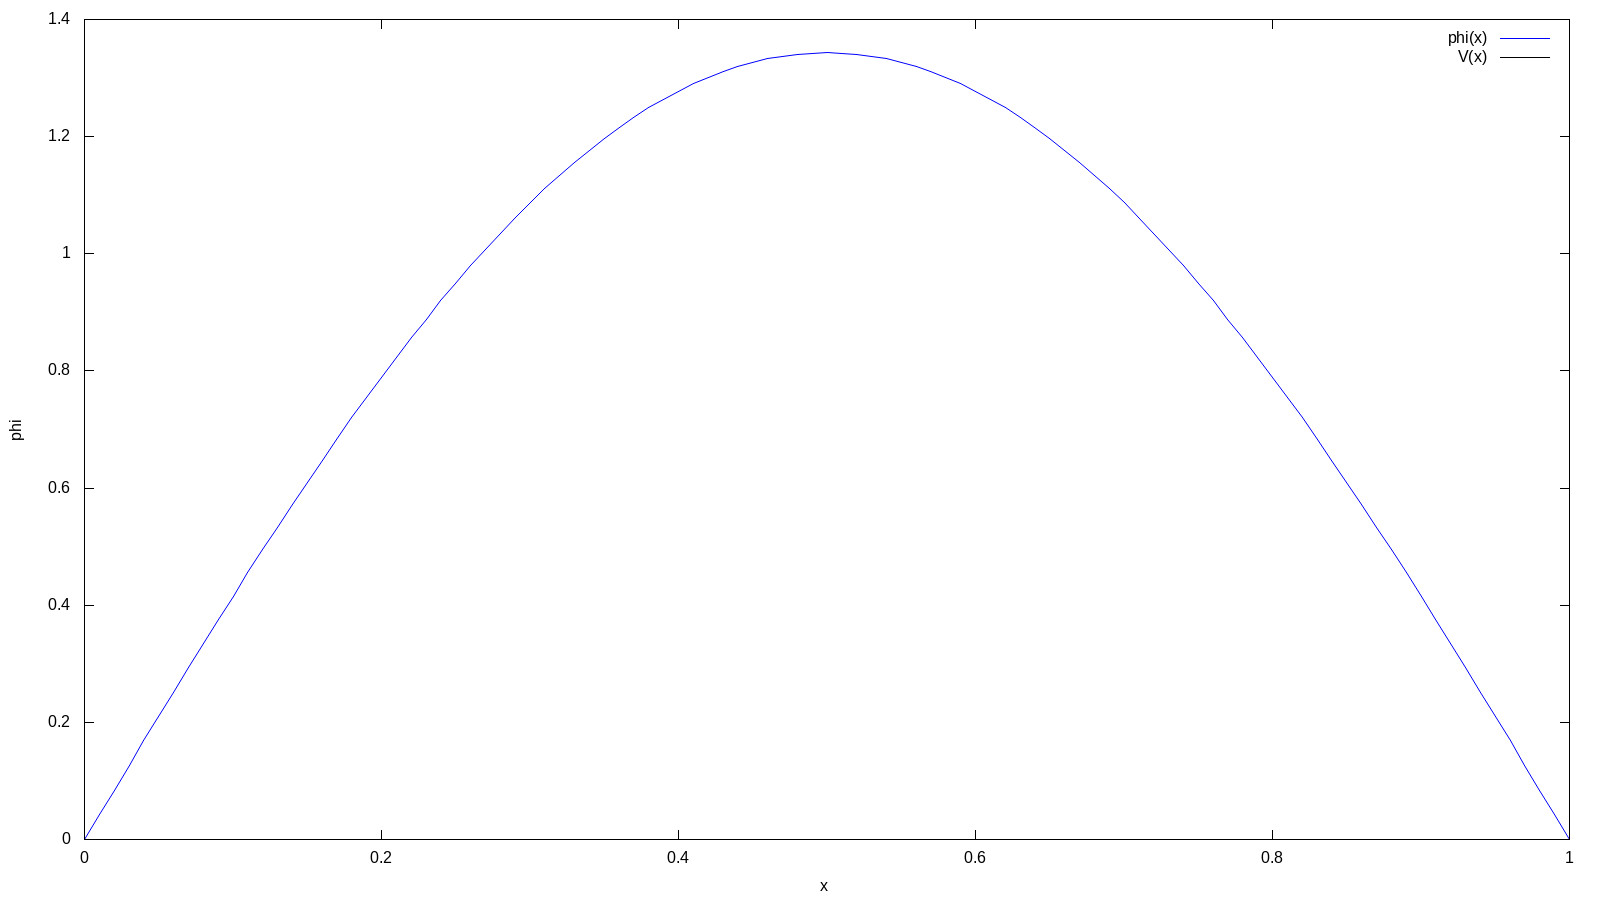
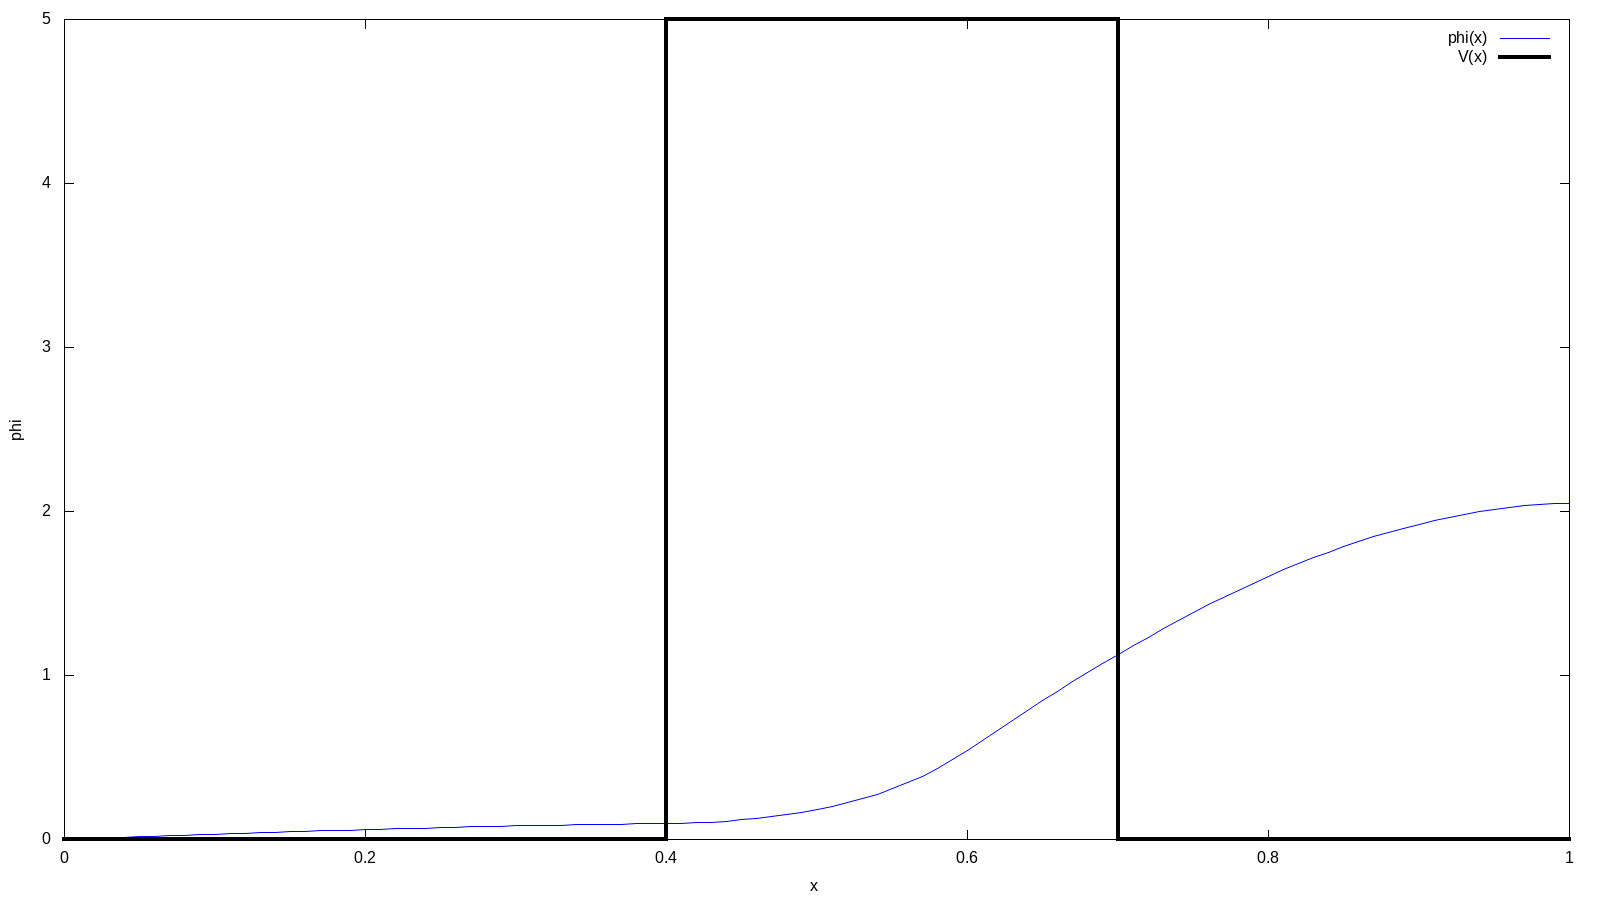
Some improvements + fixes Added structures for parameters, to make it easier and more readable Addes the different cases of potential Fixed an issue in the function drawPotential() : when the potential changed there was a leaning line and not a vertical line

diff --git a/src/main.c b/src/main.c
@@ -8,10 +8,20 @@
 
 #define N_POINTS 100 //number of points
 
+
 typedef struct potentialParams{
 	int type;
-	double value;
+	double v0;
+	double a;
+	double b;
 }potentialParams;
+
+typedef struct schrodingerParameters{
+	potentialParams potential;
+	double energy;
+	double bound;
+	double alpha;
+}schrodingerParameters;
 
 /*
 	
@@ -31,28 +41,44 @@ d(phi)/dx - alpha * phi = 0
 
 
 // It will change between the 3 cases that we will see here (rectangular, null...)
-double getPotential(double x){
-	return 0;
+double getPotential(double x, potentialParams potential){
+	switch(potential.type){
+		case 0: 	// V=0
+			return 0;
+		case 1:		// step potential
+			if(x<potential.a){
+				return 0;
+			}
+			else{
+				return potential.v0;
+			}
+		case 2:		// rectangular potential
+			if(x<potential.a || x>potential.b){
+				return 0;
+			}
+			else{
+				return potential.v0;
+			}
+		default:
+			fprintf(stderr, "ERROR : in getPotential(), parameters are incorrect");
+			exit(EXIT_FAILURE);
+	}
+
 	/*
-	if(x>5){
-		...
-	}
-	else{
-		...
-	}
+	
 	*/
 }
 
 
-// Calculate alpha which is in the equation of Schrodinger : phi'' + alpha*phi = 0
-double getConstantFromParams(double x, double* params)
+// Calculate the coefficient of phi (C) which is in the equation of Schrodinger : phi'' + C*phi = 0
+double getCoefficientFromParams(double x, schrodingerParameters params)
 {
-	return params[0]*(params[1]-getPotential(x));
+	return params.alpha*(params.energy-getPotential(x, params.potential));
 }
 
 // calculate f(y0,y1,y2)
 int func (double x, const double y[], double f[] /* = dydt*/, void *params){
-	double alpha = getConstantFromParams(x, (double*) params);
+	double alpha = getCoefficientFromParams(x, *(schrodingerParameters*) params);
 	f[0]=y[1];
 	f[1]=(-1.0)*alpha*y[0];
 	f[2]=y[0]*y[0];
@@ -61,11 +87,10 @@ int func (double x, const double y[], double f[] /* = dydt*/, void *params){
 }
 
 // get an approximation of the values of the function phi(x) in the equation, to find the root
-int functionForRoot(double z, double params[3], double f[2])
+int functionForRoot(double z, schrodingerParameters params, double f[2])
 {
-	double constants[2] = {params[2], params[1]} ; // constants[0] = 2m/hbar²	constants[1] = E
-	gsl_odeiv2_system sys = {func, NULL, 3, &constants}; // we initialize the ODE system
-	double x = 0.0, l = params[0]; // we set the bounds
+	gsl_odeiv2_system sys = {func, NULL, 3, &params}; // we initialize the ODE system
+	double x = 0.0, l = params.bound; // we set the bounds
 
 	gsl_odeiv2_driver * driver = gsl_odeiv2_driver_alloc_y_new (&sys, gsl_odeiv2_step_rkf45, 1e-6, 1e-6, 0.0); 
 
@@ -110,7 +135,7 @@ int print_state (size_t iter, gsl_multiroot_fsolver * s)
 }
 */
 // Find the root with the shooting method
-double findRoot(double params[3]){
+double findRoot(schrodingerParameters params){
 	double y[2]={0.0, 0.0};
 	double step=0.01;
 	double z=0.0-step;
@@ -130,19 +155,18 @@ double findRoot(double params[3]){
 			best_z_approx=z;
 		}
 		iter++;
-	}while(eps>0.1 && iter<1000);
+	}while(eps>1e-8 && iter<1000);
 	
 	return best_z_approx;
 }
 
 
 // solve the ODE with the correct params (that we got from findRoots())
-void solveAndSaveData(double z, double params[3]){
+void solveAndSaveData(double z, schrodingerParameters params){
 	FILE* dataFile = fopen("data/phi.dat", "w");
 	
-	double constants[2] = {params[2], params[1]} ; // constants[0] = 2m/hbar^2	constants[1] = E
-	gsl_odeiv2_system sys = {func, NULL, 3, &constants}; // we initialize the ODE system
-	double x = 0.0, l = params[0]; // we set the bounds
+	gsl_odeiv2_system sys = {func, NULL, 3, &params}; // we initialize the ODE system
+	double x = 0.0, l = params.bound; // we set the bounds
 
 	gsl_odeiv2_driver * driver = gsl_odeiv2_driver_alloc_y_new (&sys, gsl_odeiv2_step_rkf45, 1e-6, 1e-6, 0.0);
 
@@ -168,28 +192,41 @@ void solveAndSaveData(double z, double params[3]){
 	fclose(dataFile);
 }
 
-void drawPotential(double l){
+void drawPotential(schrodingerParameters params){
 	FILE* dataFile = fopen("data/potential.dat", "w");
 	fprintf(dataFile, "x V(x)\n");
-	for(double x=0; x<=l; x++){
-		fprintf(dataFile, "%lf %lf\n", x, getPotential(x));
+	double step=0.0;
+	if(params.potential.type==0){ // because there is only one value so 2 points are enough to draw the line
+		step=params.bound/2;
+	}
+	else{
+		step=params.bound/10;
+	}
+
+	double potentialX=0.0;
+	double prev_potentialX=0.0;
+	for(double x=0.0; x<=params.bound; x+=step){
+		potentialX = getPotential(x, params.potential);
+		printf("V(%lf) = %lf | prev = %lf \n", x, potentialX, prev_potentialX);
+		// to get a vertical line and not a leaning wall
+		if(prev_potentialX<potentialX){
+			fprintf(dataFile, "%lf %lf\n", x, 0.0);
+		}
+		else if(prev_potentialX>potentialX){
+			fprintf(dataFile, "%lf %lf\n", x, prev_potentialX);
+		}
+		fprintf(dataFile, "%lf %lf\n", x, potentialX);
+		prev_potentialX=potentialX;
 	}
 	fclose(dataFile);
 }
 
-void solveSchrodinger(double params[3]){
+void solveSchrodinger(schrodingerParameters params){
 	double z=0.0;
-	FILE* dataFile = fopen("data/phiALL.dat", "w");fclose(dataFile);
-	/*
-	potentialParams potential;
-	potential.type=0;
-	potential.value=1; //temporary value
 	
-	printf("What case do you want to view\n0: V(x)=0 everywhere\n1: V(x) is a step\n2: V(x) is rectangular\n: "); scanf("%d", &(potential.type));
-	*/
 	z=findRoot(params);
 	solveAndSaveData(z, params);
-	drawPotential(params[0]);
+	drawPotential(params);
 }
 
 int main(){
@@ -222,8 +259,24 @@ int main(){
 	double energy = hbar*hbar*4*M_PI*M_PI / (8*m*l*l); // ~=0.34 according to the formula : En = h^2 * n^2 / (8*m*l^2)
 	double alpha = 2*m / (hbar*hbar); // we have (d^2)(phi(x))/d(x^2) + alpha phi(x) = 0
 
-	double params[3] = {l, energy, alpha};
+	potentialParams potential;
+	potential.type=0;
+	potential.v0=1.0;
+	
+	printf("What case do you want to view\n0: V(x)=0 everywhere\n1: V(x) is a step\n2: V(x) is rectangular\nANSWER: "); scanf("%d", &(potential.type));
+	if(potential.type!=0){ // if V(x) != 0 for all x
+		printf("Give the value of the potential in the well when it's not null: V0 = "); scanf("%lf", &(potential.v0));
+		potential.a = 0.4;
+		potential.b = 0.6;
+	}
 
+	schrodingerParameters params;
+	params.potential=potential;
+	params.energy=energy;
+	params.bound=l;
+	params.alpha=alpha;
+	
+	//FILE* dataFile = fopen("data/phiALL.dat", "w");fclose(dataFile);
 	solveSchrodinger(params);
 
 
